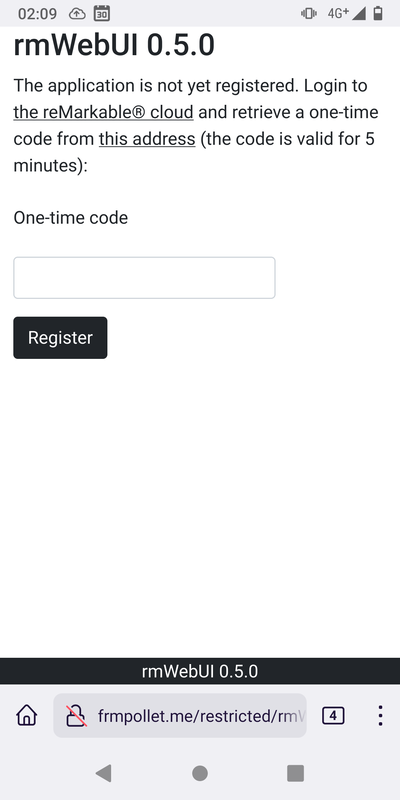
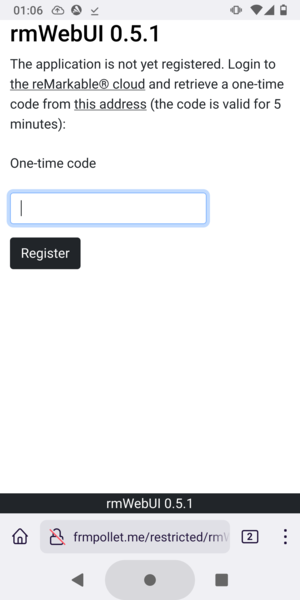
fixed title bar ; more screenshots

diff --git a/src/frontend/rmWebUI.js b/src/frontend/rmWebUI.js
@@ -19,6 +19,28 @@ class rmWebUI {
 
         this.nRequests = 0;
         this.refreshButtonVisible = false;
+
+        // set events for collapsibles to resize the margin for the header during show/hide animation
+        Array.prototype.forEach.call(document.getElementsByClassName('collapse'), (coll) => {
+            const clearResizeInterval = () => {
+                if(this.resizeInterval) {
+                    clearInterval(this.resizeInterval);
+                    this.resizeInterval = undefined;
+                }
+            };
+            const setResizeInterval = () => {
+                this.resizeInterval = setInterval(() => this.resizeHeader(), 25);
+                // we clear the interval after a time just in case the hidden/shown events
+                // are not received (we don't want to run this interval forever)
+                setTimeout(() => clearResizeInterval(), 2000);
+                
+            };
+            coll.addEventListener('hide.bs.collapse', setResizeInterval);
+            coll.addEventListener('hidden.bs.collapse', clearResizeInterval);
+
+            coll.addEventListener('show.bs.collapse', setResizeInterval);
+            coll.addEventListener('shown.bs.collapse', clearResizeInterval);
+        });
         
         // Load config and version
         Promise.all([
@@ -96,6 +118,15 @@ class rmWebUI {
         } else {
             this.showPage("list");
         }
+        this.resizeHeader();
+    }
+
+    /** 
+     * Resize the margin for the header 
+     */
+    resizeHeader() {
+        const body = document.getElementsByTagName("body")[0];
+        body.style = 'padding-top: '+document.getElementById('header').getBoundingClientRect().height+'px;';
     }
 
     /**
@@ -139,6 +170,7 @@ class rmWebUI {
             titletext.innerHTML += '&nbsp;<span class="badge rounded-pill bg-dark text-white">DEMO</span>';
             document.title += ' [DEMO]';
         }
+        this.resizeHeader();
     }
 
     /**
@@ -161,6 +193,7 @@ class rmWebUI {
         const prev = !cl.contains('d-none');
         if(cl.contains('d-none') && visible == true) cl.remove('d-none');
         else if(!cl.contains('d-none') && visible == false) cl.add('d-none');
+        this.resizeHeader();
         return prev;
     }
 
@@ -186,6 +219,7 @@ class rmWebUI {
             this.show("content-"+item, item == page);
         };
         if(this.pages[page].showPage) this.pages[page].showPage();
+        this.resizeHeader();
     }
 
     /**

diff --git a/src/frontend/index.html b/src/frontend/index.html
@@ -7,15 +7,16 @@
   
     --------------------------------------------------- 
 --><!DOCTYPE html>
-<html xmlns="http://www.w3.org/1999/xhtml" lang="en" class="" style="position: relative; min-height:100%;">
+<html xmlns="http://www.w3.org/1999/xhtml" lang="en" style="position: relative; min-height:100%;">
   <head>
     <meta charset="utf-8">
     <meta name="viewport" content="width=device-width, initial-scale=1">
     <link id="favicon" rel="icon" type="image/svg+xml" href="resources/cloud.svg">
     <link rel="stylesheet" href="resources/bootstrap.min.css">
-  </head><body class="d-flex flex-column">
-    <main class="flex-shrink-0">
-      <div class="container-fluid">
+  </head>
+  <body onresize="app.resizeHeader();">
+    <header class="header fixed-top bg-white text-black" id="header">
+      <div class="container-fluid"  onresize="onResize();">
         <!-- debug banner -->
         <div class="row bg-warning d-none" id="debug-banner"><div class="col text-center">Debug mode</div></div>
         
@@ -34,6 +35,10 @@
           <div class="collapse" id="extended-error"><br/><span id="extended-error-text"></span></div>
         </div>
 
+      </div>
+    </header>
+    <main>
+      <div class="container-fluid">
         <!-- content -->
         <div id="content">
           <div class="rmWebUI-page" data-rmWebUI-page="register" data-rmWebUI-class="rmWebUIRegister"></div>

diff --git a/CHANGELOG.md b/CHANGELOG.md
@@ -5,11 +5,16 @@ The format is based on [Keep a Changelog](https://keepachangelog.com/en/1.0.0/).
 
 ## develop
 ### Added
-- Demo mode: "demo" badge and instructions added
-- Small fix in title
-- Fix behaviour for register form
-- Better footer
-- Fix behaviour of refresh button when starting several requests at once
+
+## [0.5.1] - 2022-01-08
+### Added
+- Various minor improvements to the UI:
+  - Demo mode: "demo" badge and instructions added
+  - Small fix in title
+  - Better footer
+  - Title and error banner now always visible (sticky header)
+  - Fix behaviour for register form
+  - Fix behaviour of refresh button when starting several requests at once
 - Replaced Bash script with PHP script
 
 ## [0.5.0] - 2022-01-04
@@ -65,7 +70,8 @@ The format is based on [Keep a Changelog](https://keepachangelog.com/en/1.0.0/).
 ### Added
 - First version
 
-[develop]: https://github.com/polletfa/rmWebUI/compare/0.5.0...develop
+[develop]: https://github.com/polletfa/rmWebUI/compare/0.5.1...develop
+[0.5.1]: https://github.com/polletfa/rmWebUI/compare/0.5.0...0.5.1
 [0.5.0]: https://github.com/polletfa/rmWebUI/compare/0.4.3...0.5.0
 [0.4.3]: https://github.com/polletfa/rmWebUI/compare/0.4.2...0.4.3
 [0.4.2]: https://github.com/polletfa/rmWebUI/compare/0.4.1...0.4.2

diff --git a/README.md b/README.md
@@ -11,7 +11,11 @@ rmWebUI is a simple web interface for the reMarkable&reg; cloud designed primari
 - [Demonstration mode](http://frmpollet.me/rmWebUI-demo/)
 
 ![register](./screenshots/register.png)
-![list](./screenshots/list.png)
+![register-failed](./screenshots/register-failed.png)
+![list-root](./screenshots/list-root.png)
+![list-open-item](./screenshots/list-open-item.png)
+![list-downloading](./screenshots/list-downloading.png)
+![list-download](./screenshots/list-download.png)
 
 # Install
 
